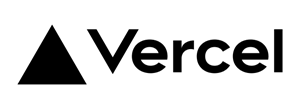
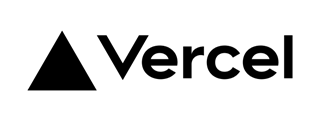
Add hasura bg and better vercel

Changed region(s): [[0.27, 0.2477, 0.96, 0.6881], [0.06, 0.2202, 0.3, 0.7982]]

diff --git a/README.md b/README.md
@@ -69,7 +69,7 @@ Both Vercel and Netlify offer a ridiculously generous free tier.
 ## GraphQL Engine: Hasura on Heroku
 
 <p align="center">
-  <img src="/docs/img/hasura.svg" alt="Hasura Logo" width="100">
+  <img src="/docs/img/hasura-bg.png" alt="Hasura Logo" width="100">
 </p>
 
 [Hasura](https://hasura.io/) combines an ORM for CRUD operations via GraphQL on a PostgreSQL database, a DB GUI, DB migrations, roles and permissions, and acts as the single entrypoint for all your API calls, with the ability to call remote GraphQL services under the hood. Its competitor is [PostGraphile](https://www.graphile.org/postgraphile/) which I haven't tried yet.
